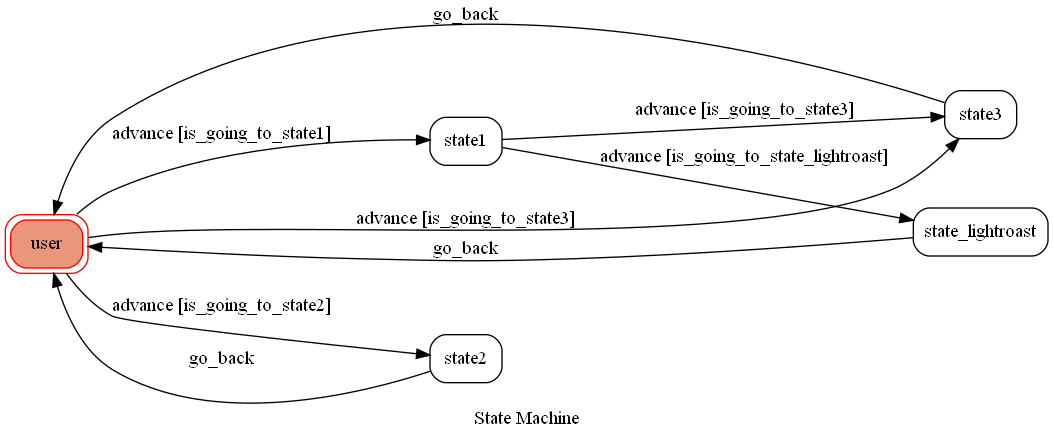
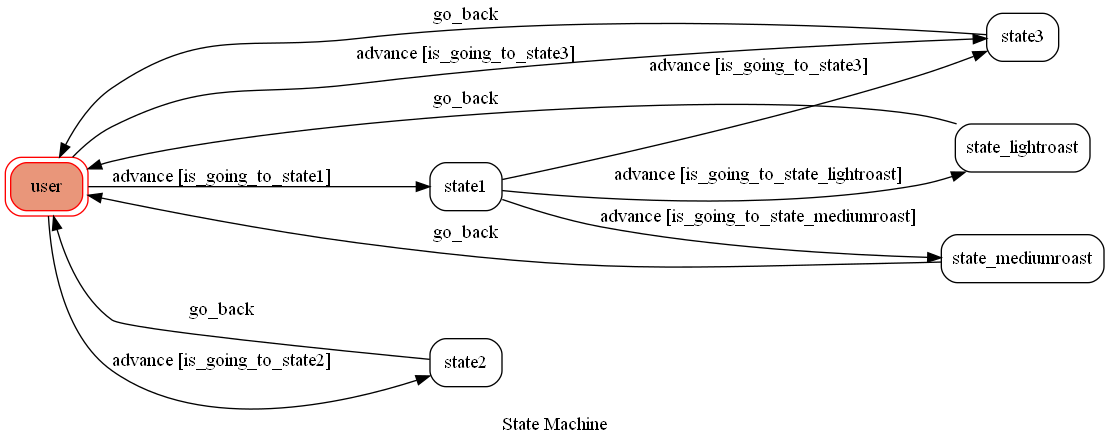
add state_mediumroast test message1

diff --git a/app.py b/app.py
@@ -43,6 +43,12 @@ machine = TocMachine(
         {
             "trigger": "advance",
             "source": "state1",
+            "dest": "state_mediumroast",
+            "conditions": "is_going_to_state_mediumroast",
+        },
+        {
+            "trigger": "advance",
+            "source": "state1",
             "dest": "state3",
             "conditions": "is_going_to_state3",
         },
